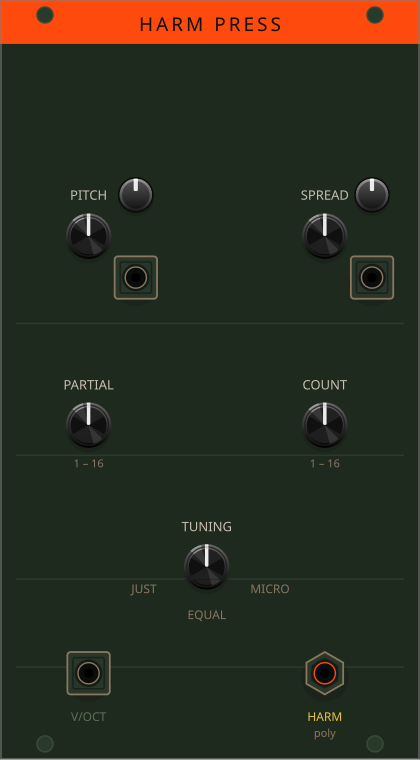
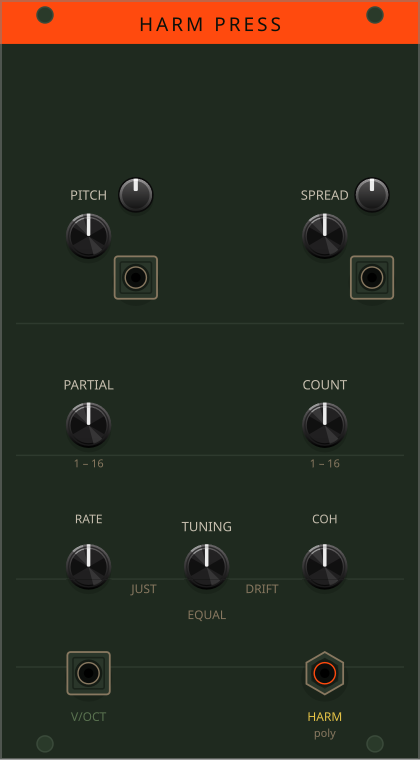
docs: changelog covers 2.3.0 in full, and re-render after the tuning work
Adds what today produced: Swarm Core sample banks, the WAV reader fixes, the
bank-switch use-after-free, port morphology, and Harmonic Pressure drift.

Flags the one behavioural break for released patches - tuning mode 2 was MICRO
and is now DRIFT. Range and position are unchanged so patches load, but a mode-2
patch now drifts where it used to sit still.

Changed region(s): [[0.7119, 0.6658, 0.8357, 0.7868], [0.1548, 0.6658, 0.2786, 0.7868], [0.5881, 0.7566, 0.681, 0.7868]]

diff --git a/CHANGELOG.md b/CHANGELOG.md
@@ -13,6 +13,19 @@ were never released, and fixes a module that has never made a sound.
 
 ### Added
 
+- **Swarm Core sample banks.** Two curated banks of 32 recordings ship in the
+  repository — Cicadidae (23 species) and Orthoptera (9) — picked round-robin
+  across species and stored as the mono 16-bit 44.1 kHz, 5-second form the
+  loader always reduced them to. **27 MB in place of 324 MB**, and a build from
+  source now has samples for the first time. The bank is chosen from the module
+  context menu and stored in the patch by name, so adding or reordering banks
+  cannot repoint an existing patch. InsectSet32 is CC BY 4.0; `ATTRIBUTION.md`
+  ships beside the audio.
+- **Harmonic Pressure drift.** DRIFT RATE and DRIFT COHERENCE, driving a real
+  drift engine — coherence 0 transposes the whole stack together, 1 lets
+  partials drift independently.
+
+
 - **Ratchet** (AF-03, 8 HP) — trigger burst generator. COUNT/SPREAD/PROB,
   subdividing the measured input interval.
 - **Collapse EG** (AF-04, 8 HP) — attack/decay envelope with CURVE, MISFIRE and
@@ -23,6 +36,22 @@ were never released, and fixes a module that has never made a sound.
   precision 3-input adder and a buffered 1→3 mult. All polyphonic.
 
 ### Fixed
+
+- **Swarm Core's WAV reader rejected or silently misdecoded most formats.**
+  `WAVE_FORMAT_EXTENSIBLE` was refused outright — 60 of the 670 source
+  recordings use it. 24-bit and 8-bit PCM fell through to the 16-bit branch, so
+  they loaded, reported success and produced noise. **Zero channels divided by
+  zero and took the process down**, so a malformed WAV in a user folder crashed
+  Rack. Odd-sized RIFF chunks were skipped without their pad byte, leaving the
+  reader a byte out of step so it never found the data. Now handles PCM
+  8/16/24/32 and float 32/64, plain or extensible, under 26 assertions.
+- **Swarm Core loaded 64 cicadas and nothing else.** The loader sorted paths and
+  took the first 64; `cicadidae` sorts before `orthoptera`, so 294 orthoptera
+  recordings were unreachable on a module whose only job is browsing a bank.
+- **Bank switching freed samples the audio thread was reading** — a
+  use-after-free, not a race you could hear. Loaded banks are now never freed
+  while the module lives and are published through one atomic pointer.
+
 
 - **Sitar Grid produced no sound at all.** `ksPluck` wrote its excitation burst
   to the delay-line span *ahead* of the write head without advancing it, so the
@@ -35,6 +64,17 @@ were never released, and fixes a module that has never made a sound.
   See <https://github.com/VCVRack/Rack/blob/v2/src/tag.cpp>.
 
 ### Changed
+
+- **Ports carry direction by shape.** Inputs are square, outputs hexagonal.
+  AF-IDS §10 forbids signalling direction by colour alone and every panel did
+  exactly that; colour is now free to keep meaning signal *type*. Both graphics
+  are drawn in PJ301M's 23.7 px box, so no panel coordinate moved.
+- **BREAKING for saved patches: Harmonic Pressure tuning mode 2 was MICRO and
+  is now DRIFT.** The parameter keeps its range and position, so patches load
+  and every other control is unaffected — but a v2.2.0 patch set to mode 2 gets
+  a time-varying drift where it used to get a static per-partial offset. Modes
+  0 (JUST) and 1 (EQUAL) are unchanged.
+
 
 - **DroneClone 22 -> 26 HP** and **Collapse Saturator 12 -> 16 HP.** Both were
   crowded past the point where labels could clear their neighbours. Widening
